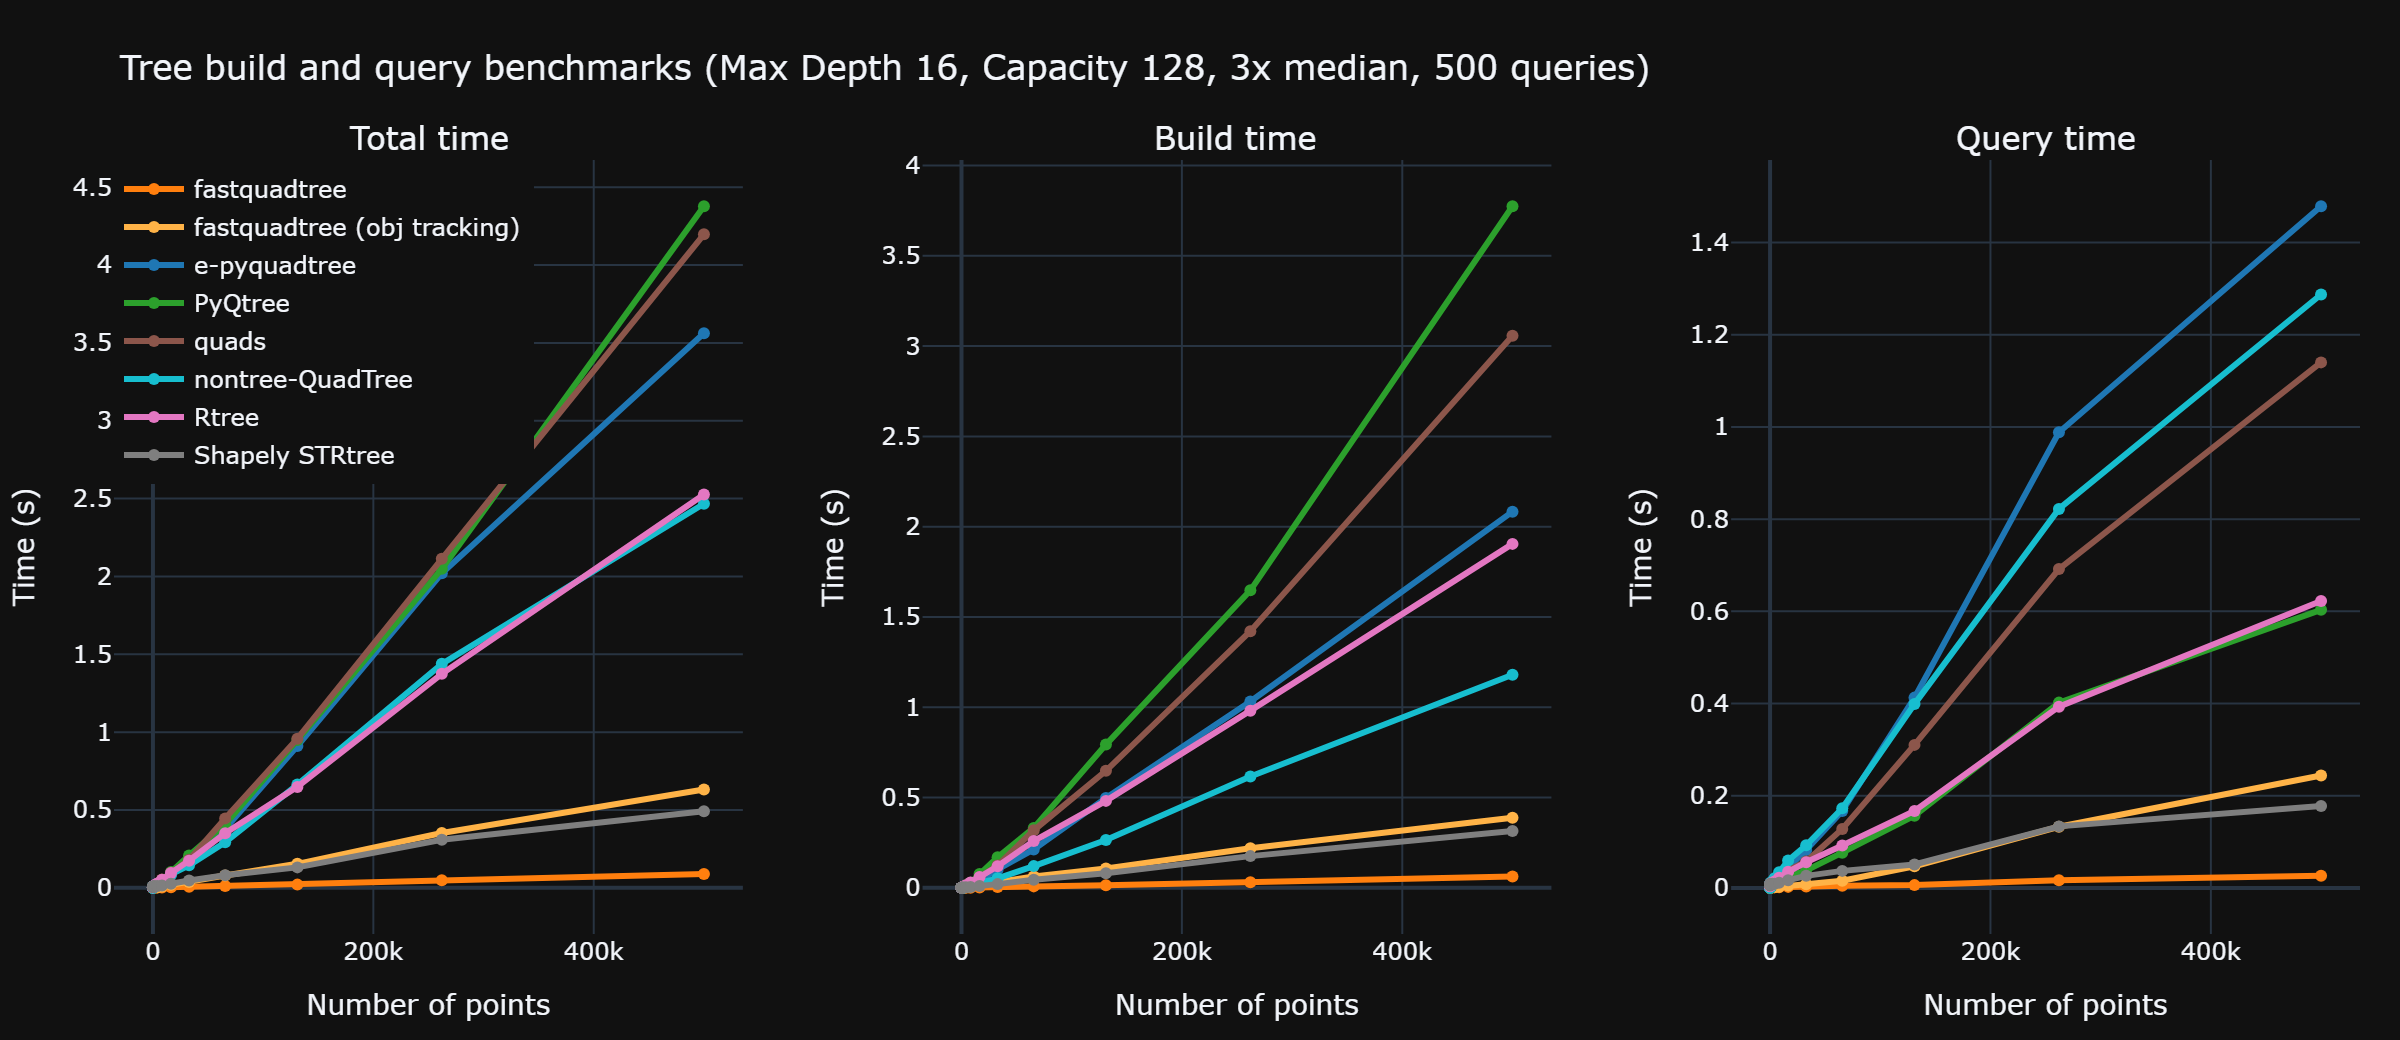
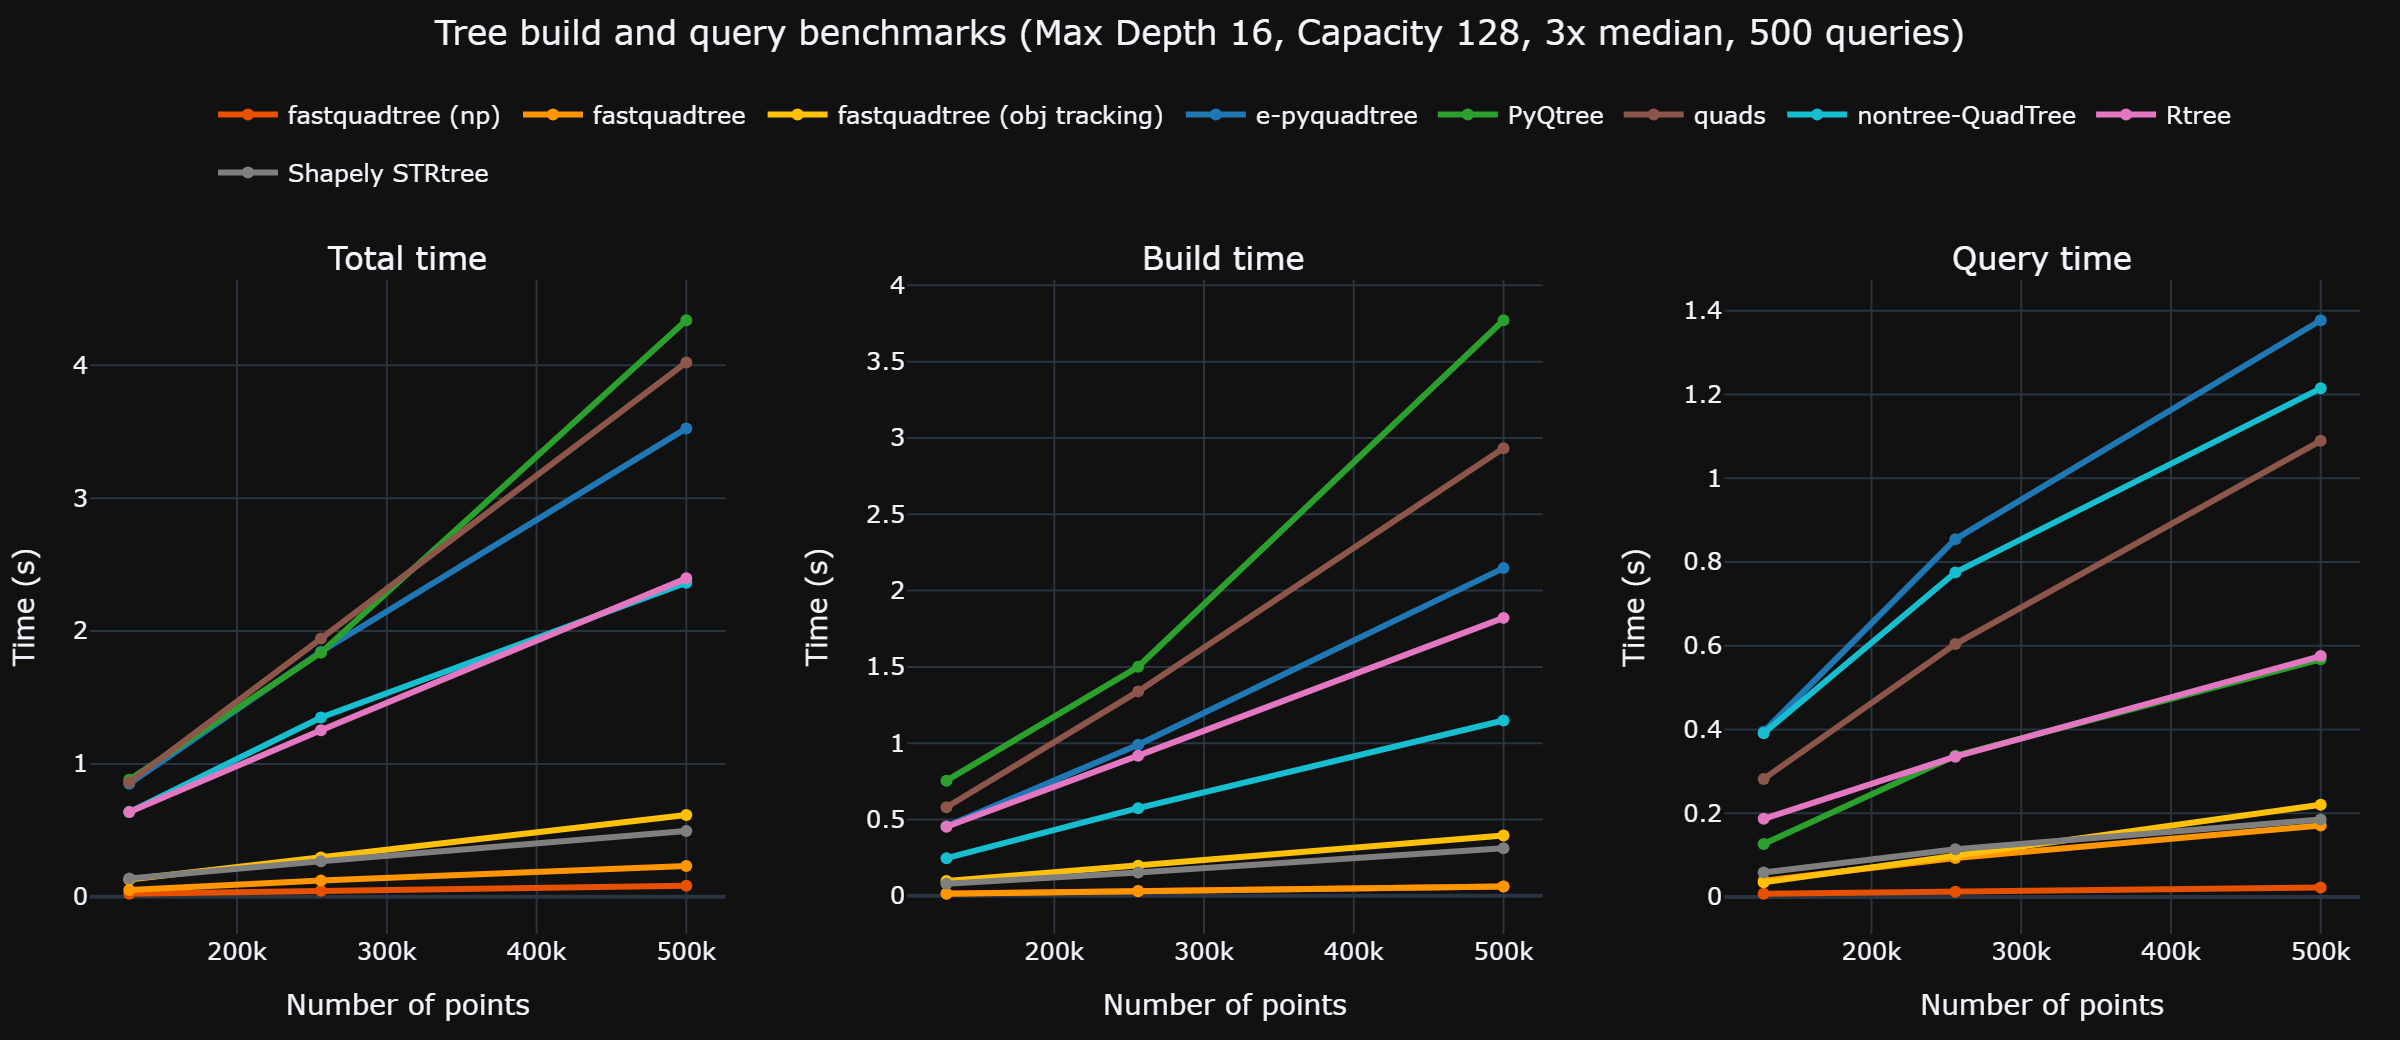
docs: add fqt (non np) to timing benchmark

diff --git a/benchmarks/quadtree_bench/plotting.py b/benchmarks/quadtree_bench/plotting.py
@@ -61,23 +61,27 @@ class PlotManager:
 
         # Update layout
         fig.update_layout(
-            title=(
-                f"Tree build and query benchmarks "
-                f"(Max Depth {self.config.max_depth}, "
-                f"Capacity {self.config.max_points}, "
-                f"{self.config.repeats}x median, "
-                f"{self.config.n_queries} queries)"
-            ),
+            title={
+                "text": (
+                    f"Tree build and query benchmarks "
+                    f"(Max Depth {self.config.max_depth}, "
+                    f"Capacity {self.config.max_points}, "
+                    f"{self.config.repeats}x median, "
+                    f"{self.config.n_queries} queries)"
+                ),
+                "y": 0.98,
+                "x": 0.5,
+                "xanchor": "center",
+            },
             template="plotly_dark",
             legend={
-                "orientation": "v",
-                "traceorder": "normal",
-                "xanchor": "left",
-                "x": 0,
-                "yanchor": "top",
-                "y": 1,
+                "orientation": "h",
+                "x": 0.5,
+                "xanchor": "center",
+                "y": 1.12,
+                "yanchor": "bottom",
             },
-            margin={"l": 40, "r": 20, "t": 80, "b": 40},
+            margin={"l": 40, "r": 20, "t": 140, "b": 40},  # Increase top margin
             height=520,
         )
 
@@ -93,7 +97,7 @@ class PlotManager:
         )
 
         # Set logarithmic scale for query rate
-        fig.update_yaxes(type="log", row=1, col=2)
+        fig.update_yaxes(type="log", row=1, col=2, tickformat=".0s", dtick=0.25)
 
         for name in list(self.results["query_rate"].keys()):
             # Determine color
@@ -136,16 +140,21 @@ class PlotManager:
 
         # Update layout
         fig.update_layout(
-            title="Throughput",
+            title={
+                "text": "Throughput",
+                "y": 0.98,  # Push title to very top
+                "x": 0.5,
+                "xanchor": "center",
+            },
             template="plotly_dark",
             legend={
                 "orientation": "h",
-                "x": 0,
-                "xanchor": "left",
-                "y": 1.08,  # above the subplots
+                "x": 0.5,
+                "xanchor": "center",
+                "y": 1.15,  # Move legend higher
                 "yanchor": "bottom",
             },
-            margin={"l": 60, "r": 40, "t": 120, "b": 40},
+            margin={"l": 60, "r": 40, "t": 140, "b": 40},  # Increase top margin
             height=480,
         )
 

diff --git a/benchmarks/quadtree_bench/engines.py b/benchmarks/quadtree_bench/engines.py
@@ -100,7 +100,7 @@ def _create_pyqtree_engine(
 def _create_fastquadtree_np_engine(
     bounds: Tuple[int, int, int, int], max_points: int, max_depth: int
 ) -> Engine:
-    """Create engine adapter for fastquadtree."""
+    """Create engine adapter for fastquadtree but queries are returned as numpy arrays instead of Python lists."""
 
     def build(points):
         qt = FQTQuadTree(bounds, max_points, max_depth=max_depth)
@@ -112,8 +112,30 @@ def _create_fastquadtree_np_engine(
             _ = qt.query_np(q)
 
     return Engine(
+        "fastquadtree (np)",
+        "#e55100",
+        build,
+        query,  # display name  # color (orange)
+    )
+
+
+def _create_fastquadtree_engine(
+    bounds: Tuple[int, int, int, int], max_points: int, max_depth: int
+) -> Engine:
+    """Create engine adapter for fastquadtree."""
+
+    def build(points):
+        qt = FQTQuadTree(bounds, max_points, max_depth=max_depth)
+        qt.insert_many(points)
+        return qt
+
+    def query(qt, queries):
+        for q in queries:
+            _ = qt.query(q)
+
+    return Engine(
         "fastquadtree",
-        "#ff7f0e",
+        "#ff9500",
         build,
         query,  # display name  # color (orange)
     )
@@ -134,8 +156,8 @@ def _create_fastquadtree_items_engine(
             _ = qt.query(q)
 
     return Engine(
-        "fastquadtree (obj tracking)",
-        "#ffb347",
+        "fastquadtree (objs)",
+        "#ffc107",
         build,
         query,  # display name  # color (orange)
     )
@@ -314,7 +336,10 @@ def get_engines(
     """
     # Always available engines
     engines = {
-        "fastquadtree": _create_fastquadtree_np_engine(bounds, max_points, max_depth),
+        "fastquadtree (np)": _create_fastquadtree_np_engine(
+            bounds, max_points, max_depth
+        ),
+        "fastquadtree": _create_fastquadtree_engine(bounds, max_points, max_depth),
         "fastquadtree (obj tracking)": _create_fastquadtree_items_engine(
             bounds, max_points, max_depth
         ),

diff --git a/benchmarks/quadtree_bench/runner.py b/benchmarks/quadtree_bench/runner.py
@@ -35,7 +35,7 @@ class BenchmarkConfig:
 
     def __post_init__(self):
         """Generate experiment point sizes."""
-        self.experiments = [2, 4, 8, 16]
+        self.experiments = [128000]
         while self.experiments[-1] < self.max_experiment_points:
             self.experiments.append(int(self.experiments[-1] * 2))
         self.experiments[-1] = min(self.experiments[-1], self.max_experiment_points)

diff --git a/README.md b/README.md
@@ -72,14 +72,20 @@ fastquadtree **outperforms** all other quadtree Python packages, including the R
 
 | Library | Build (s) | Query (s) | Total (s) | Speed vs PyQtree |
 |---|---:|---:|---:|---:|
-| fastquadtree | 0.063 | 0.026 | 0.089 | 48.99× |
-| Shapely STRtree | 0.314 | 0.178 | 0.492 | 8.90× |
-| fastquadtree (obj tracking) | 0.388 | 0.244 | 0.632 | 6.93× |
-| nontree-QuadTree | 1.180 | 1.287 | 2.467 | 1.77× |
-| Rtree        | 1.905 | 0.622 | 2.527 | 1.73× |
-| e-pyquadtree | 2.083 | 1.479 | 3.562 | 1.23× |
-| quads        | 3.058 | 1.140 | 4.198 | 1.04× |
-| PyQtree      | 3.775 | 0.603 | 4.378 | 1.00× |
+| fastquadtree (np)[^fqtnp] | 0.057 | 0.021 | 0.078 | 54.45× |
+| fastquadtree[^fqt] | 0.060 | 0.189 | 0.249 | 17.04× |
+| Shapely STRtree[^npreturn] | 0.321 | 0.196 | 0.517 | 8.21× |
+| fastquadtree (obj tracking)[^fqto] | 0.437 | 0.239 | 0.675 | 6.28× |
+| Rtree        | 1.796 | 0.561 | 2.357 | 1.80× |
+| nontree-QuadTree | 1.275 | 1.272 | 2.547 | 1.67× |
+| e-pyquadtree | 2.144 | 1.507 | 3.650 | 1.16× |
+| quads        | 3.001 | 1.171 | 4.172 | 1.02× |
+| PyQtree      | 3.677 | 0.565 | 4.242 | 1.00× |
+
+[^fqtnp]: Uses `query_np` for Numpy array return values rather than Python lists.
+[^fqt]: Uses standard `query` method returning Python lists.
+[^npreturn]: Uses Shapely STRtree with Numpy array points and returns.
+[^fqto]: Uses QuadTreeObjects with object association.
 
 See the [benchmark section](https://elan456.github.io/fastquadtree/benchmark/) for details, including configurations, system info, and native vs shim benchmarks.
 

diff --git a/docs/benchmark.md b/docs/benchmark.md
@@ -16,14 +16,23 @@ Quadtrees are the focus of the benchmark, but Rtrees are included for reference.
 
 | Library | Build (s) | Query (s) | Total (s) | Speed vs PyQtree |
 |---|---:|---:|---:|---:|
-| fastquadtree | 0.063 | 0.026 | 0.089 | 48.99× |
-| Shapely STRtree | 0.314 | 0.178 | 0.492 | 8.90× |
-| fastquadtree (obj tracking) | 0.388 | 0.244 | 0.632 | 6.93× |
-| nontree-QuadTree | 1.180 | 1.287 | 2.467 | 1.77× |
-| Rtree        | 1.905 | 0.622 | 2.527 | 1.73× |
-| e-pyquadtree | 2.083 | 1.479 | 3.562 | 1.23× |
-| quads        | 3.058 | 1.140 | 4.198 | 1.04× |
-| PyQtree      | 3.775 | 0.603 | 4.378 | 1.00× |
+| fastquadtree (np)[^fqtnp] | 0.057 | 0.021 | 0.078 | 54.45× |
+| fastquadtree[^fqt] | 0.060 | 0.189 | 0.249 | 17.04× |
+| Shapely STRtree[^npreturn] | 0.321 | 0.196 | 0.517 | 8.21× |
+| fastquadtree (obj tracking)[^fqto] | 0.437 | 0.239 | 0.675 | 6.28× |
+| Rtree        | 1.796 | 0.561 | 2.357 | 1.80× |
+| nontree-QuadTree | 1.275 | 1.272 | 2.547 | 1.67× |
+| e-pyquadtree | 2.144 | 1.507 | 3.650 | 1.16× |
+| quads        | 3.001 | 1.171 | 4.172 | 1.02× |
+| PyQtree      | 3.677 | 0.565 | 4.242 | 1.00× |
+
+[^fqtnp]: Uses `query_np` for Numpy array return values rather than Python lists.
+[^fqt]: Uses standard `query` method returning Python lists.
+[^npreturn]: Uses Shapely STRtree with Numpy array points and returns.
+[^fqto]: Uses QuadTreeObjects with object association.
+
+
+
 
 #### Benchmark Configuration
 | Parameter | Value |
